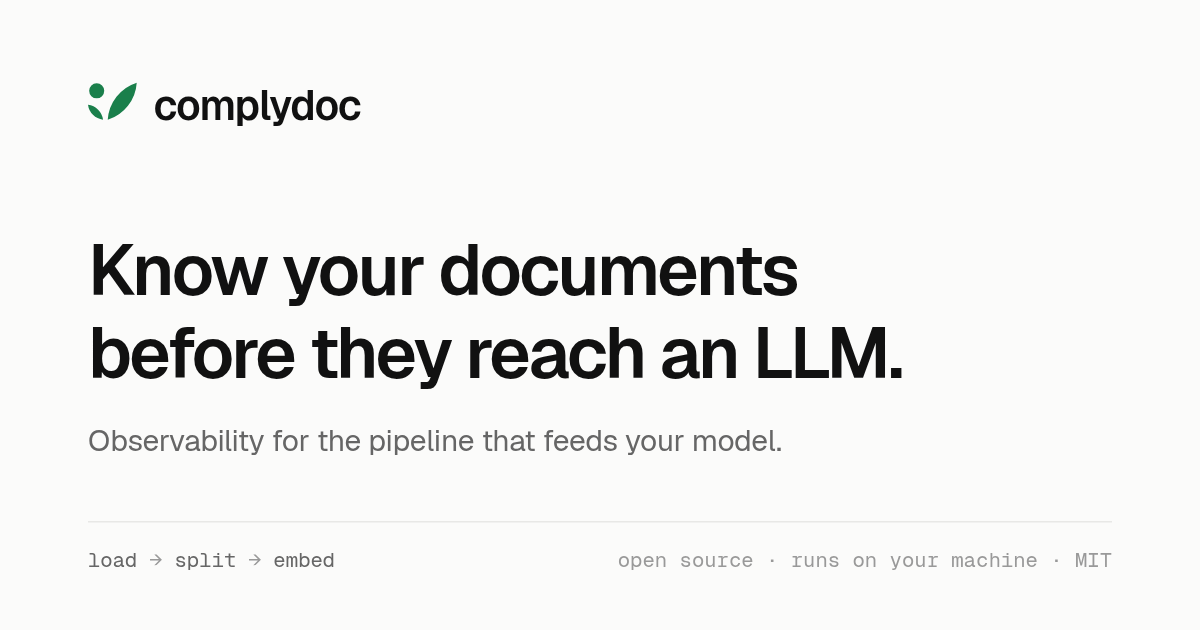
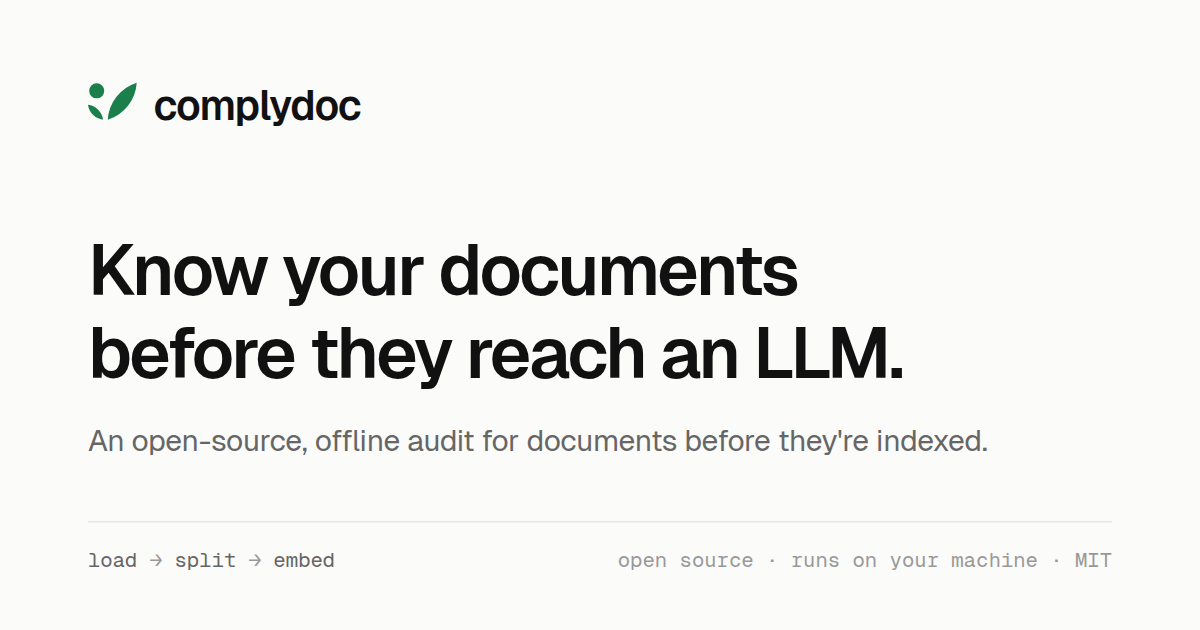
Move the descriptor off observability (#21)

diff --git a/landing/index.html b/landing/index.html
@@ -4,17 +4,17 @@
     <meta charset="UTF-8" />
     <meta name="viewport" content="width=device-width, initial-scale=1" />
     <link rel="icon" href="./favicon.svg" type="image/svg+xml" />
-    <title>complydoc: observability for AI ingestion pipelines</title>
+    <title>complydoc: Know your documents before they reach an LLM</title>
     <meta
       name="description"
-      content="complydoc is the observability layer for AI ingestion pipelines: a trace of every step from your documents to your vector store, with what each step cost, how long it took, what it extracted and which identifiers it let through. Open source, runs on your machine."
+      content="An open-source, offline audit for documents before they're indexed. Diff your loaders, catch hidden text and personal data, and gate it in CI."
     />
     <meta property="og:type" content="website" />
     <meta property="og:site_name" content="complydoc" />
-    <meta property="og:title" content="complydoc: know your documents before they reach an LLM" />
+    <meta property="og:title" content="complydoc: Know your documents before they reach an LLM" />
     <meta
       property="og:description"
-      content="Observability for the pipeline that feeds your model. Open source, runs on your machine, MIT."
+      content="An open-source, offline audit for documents before they're indexed. Diff your loaders, catch hidden text and personal data, and gate it in CI."
     />
     <meta property="og:url" content="https://complydoc.github.io/complydoc/" />
     <meta property="og:image" content="https://complydoc.github.io/complydoc/og.png" />
@@ -22,10 +22,10 @@
     <meta property="og:image:height" content="630" />
     <meta property="og:image:alt" content="complydoc. Know your documents before they reach an LLM." />
     <meta name="twitter:card" content="summary_large_image" />
-    <meta name="twitter:title" content="complydoc: know your documents before they reach an LLM" />
+    <meta name="twitter:title" content="complydoc: Know your documents before they reach an LLM" />
     <meta
       name="twitter:description"
-      content="Observability for the pipeline that feeds your model. Open source, runs on your machine, MIT."
+      content="An open-source, offline audit for documents before they're indexed. Diff your loaders, catch hidden text and personal data, and gate it in CI."
     />
     <meta name="twitter:image" content="https://complydoc.github.io/complydoc/og.png" />
     <!-- Set the theme before the first paint, so a dark reader never sees a white flash. -->

diff --git a/landing/src/sections/Hero.tsx b/landing/src/sections/Hero.tsx
@@ -17,11 +17,10 @@ export function Hero() {
         <div className="flex max-w-3xl flex-col items-center gap-6">
           <p className="font-mono text-xs text-muted-foreground">open source · runs on your machine</p>
           <h1 id="hero-title" className="text-4xl font-semibold tracking-tight text-balance md:text-6xl">
-            Observability for the pipeline that feeds your model.
+            Know your documents before they reach an LLM.
           </h1>
           <p className="max-w-2xl text-lg text-pretty text-muted-foreground">
-            Agents are traced from the model call onwards. complydoc traces what comes before: every step that loads,
-            cleans, splits, embeds and stores your documents.
+            An open-source, offline audit for documents before they're indexed.
           </p>
           <div className="flex flex-wrap items-center justify-center gap-3">
             <ButtonGroup>

diff --git a/brand/og/gen.py b/brand/og/gen.py
@@ -25,6 +25,9 @@ THEMES = {
 }
 SANS = "Geist, 'Helvetica Neue', Helvetica, Arial, sans-serif"
 MONO = "'Geist Mono', ui-monospace, Menlo, monospace"
+# The full descriptor is two sentences. The second does not fit this line at a
+# readable size, so the card keeps the first.
+DESCRIPTOR = "An open-source, offline audit for documents before they're indexed."
 
 
 def svg(theme: str, width: int, height: int) -> str:
@@ -41,7 +44,7 @@ def svg(theme: str, width: int, height: int) -> str:
   <g transform="translate({margin} {y(84)})"><path fill="{c['g']}" fill-rule="evenodd" transform="scale({mark * 0.9:.4f}) translate(-9 -20)" d="{MARK}"/>
   <text x="{70 * scale:.1f}" y="{40 * scale:.1f}" fill="{c['ink']}" font-size="{44 * scale:.1f}" font-weight="600" font-family="{SANS}" letter-spacing="-1">complydoc</text></g>
   <text x="{margin}" y="{y(300)}" fill="{c['ink']}" font-size="{76 * scale:.1f}" font-weight="600" font-family="{SANS}" letter-spacing="-2.5"><tspan x="{margin}">Know your documents</tspan><tspan x="{margin}" dy="{88 * scale:.1f}">before they reach an LLM.</tspan></text>
-  <text x="{margin}" y="{y(458)}" fill="{c['mu']}" font-size="{32 * scale:.1f}" font-weight="400" font-family="{SANS}" letter-spacing="-0.3">Observability for the pipeline that feeds your model.</text>
+  <text x="{margin}" y="{y(458)}" fill="{c['mu']}" font-size="{32 * scale:.1f}" font-weight="400" font-family="{SANS}" letter-spacing="-0.3">{DESCRIPTOR}</text>
   <line x1="{margin}" y1="{y(530)}" x2="{width - margin}" y2="{y(530)}" stroke="{c['br']}" stroke-width="1.5"/>
   <text x="{margin}" y="{y(576)}" font-size="{22 * scale:.1f}" font-family="{MONO}" fill="{c['mu']}">load <tspan fill="{c['fa']}">→</tspan> split <tspan fill="{c['fa']}">→</tspan> embed</text>
   <text x="{width - margin}" y="{y(576)}" text-anchor="end" font-size="{22 * scale:.1f}" font-family="{MONO}" fill="{c['fa']}">open source · runs on your machine · MIT</text>

diff --git a/README.md b/README.md
@@ -28,7 +28,8 @@
   <img alt="The complydoc viewer: a LangChain ingestion pipeline's runs, and one run traced step by step, each loader, splitter, vector store and embedding call on a time axis with its time, cost and the identifiers it passed on, and warnings on a scanned file that loaded no text" src="https://raw.githubusercontent.com/complydoc/complydoc/main/.github/images/viewer-trace-light.webp" width="100%">
 </picture>
 
-complydoc is the observability layer for AI ingestion pipelines. It traces every step
+An open-source, offline audit for documents before they're indexed. Diff your
+loaders, catch hidden text and personal data, and gate it in CI. It traces every step
 between your documents and your vector store (loading, cleaning, splitting, embedding,
 storing) with what each one cost, how long it took and what it passed on, and follows
 each document through them. It warns of the failures that raise no error, such as a scan

diff --git a/landing/README.md b/landing/README.md
@@ -1,10 +1,9 @@
 # complydoc landing page
 
-The page that introduces complydoc to AI engineers and researchers:
-observability for the pipeline that loads, cleans, splits, embeds and stores
-their documents. It is a static site on the
-viewer's stack and theme (React, Tailwind v4, shadcn/ui), so the two look like
-one product.
+The page that introduces complydoc to AI engineers and researchers: an open-source,
+offline audit for documents before they're indexed. Diff your loaders, catch hidden
+text and personal data, and gate it in CI. It is a static site on the viewer's stack
+and theme (React, Tailwind v4, shadcn/ui), so the two look like one product.
 
 ```bash
 npm install

diff --git a/src/complydoc/CHANGELOG.md b/src/complydoc/CHANGELOG.md
@@ -15,6 +15,9 @@ separately.
 
 ### Changed
 
+- complydoc is described as an open-source, offline audit for documents before they are
+  indexed, and a diff of document loaders, on the landing page, the docs, the package and
+  the container image. The tagline stays "Know your documents before they reach an LLM".
 - Model prices refreshed (2026-10-12). Claude Sonnet 5.5, Haiku 5.5 and Fable 5.1 are
   compared with the same vision formula and token-count note as the other Claude models.
 
